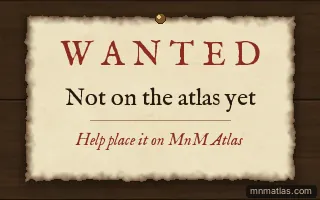
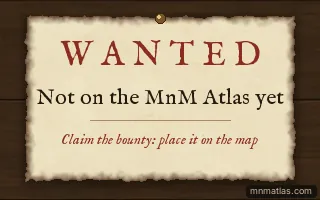
Wanted poster wording: "Not on the MnM Atlas yet", "Claim the bounty: place it on the map"

Changed region(s): [[0.125, 0.42, 0.9062, 0.57], [0.1875, 0.66, 0.8125, 0.75]]

diff --git a/scripts/make-bounty-posters.py b/scripts/make-bounty-posters.py
@@ -105,9 +105,9 @@ def draw():
     d.ellipse([W / 2 - 5, 13, W / 2 + 5, 23], fill=(122, 85, 39), outline=(59, 38, 16))
     d.ellipse([W / 2 - 2.5, 15, W / 2 + 0.5, 18], fill=(227, 194, 127))
     spaced(d, (W / 2, 34), 'WANTED', font('im-fell-english-sc.woff2', 34), RED, 8)
-    d.text((W / 2, 98), 'Not on the atlas yet', font=font('im-fell-english-regular.woff2', 24), fill=INK, anchor='mm')
+    d.text((W / 2, 98), 'Not on the MnM Atlas yet', font=font('im-fell-english-regular.woff2', 22), fill=INK, anchor='mm')
     d.line([W / 2 - 70, 120, W / 2 + 70, 120], fill=(170, 140, 100), width=1)
-    d.text((W / 2, 140), 'Help place it on MnM Atlas', font=font('im-fell-english-italic.woff2', 16), fill=RED, anchor='mm')
+    d.text((W / 2, 140), 'Claim the bounty: place it on the map', font=font('im-fell-english-italic.woff2', 15), fill=RED, anchor='mm')
     small = font('inter-variable.woff2', 9)
     credit = 'mnmatlas.com'
     cw = d.textlength(credit, font=small)
